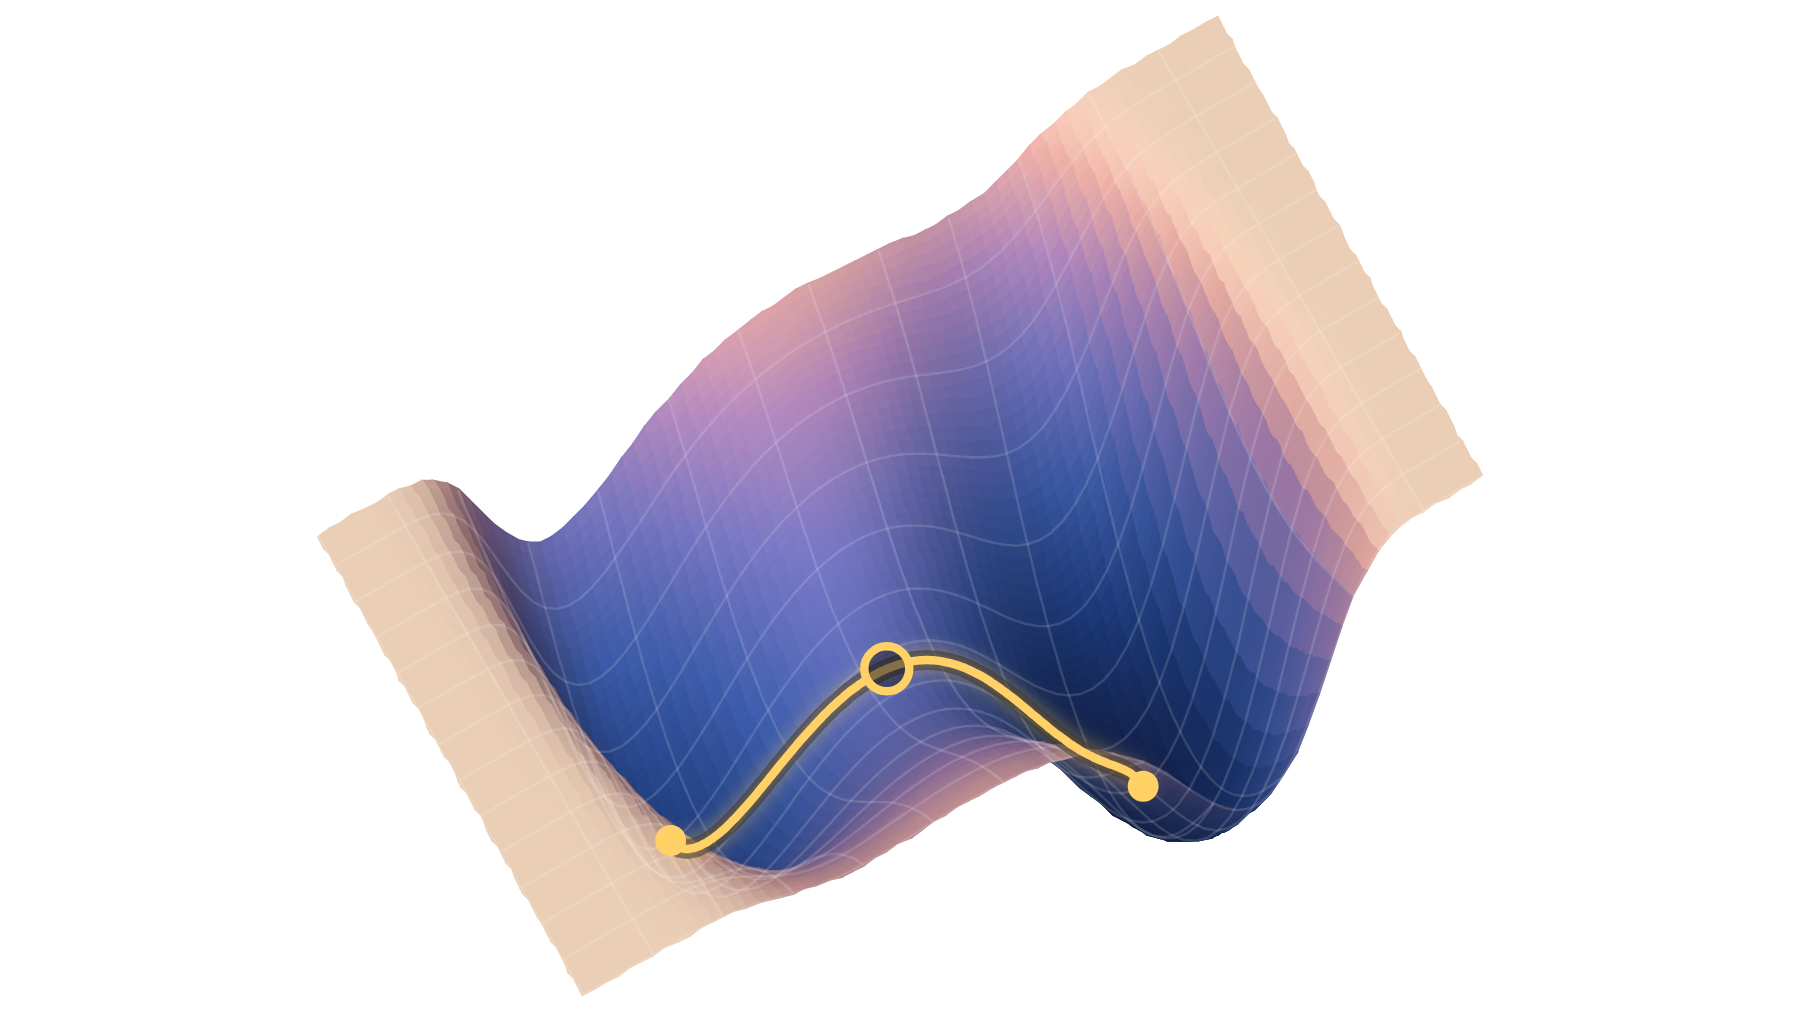
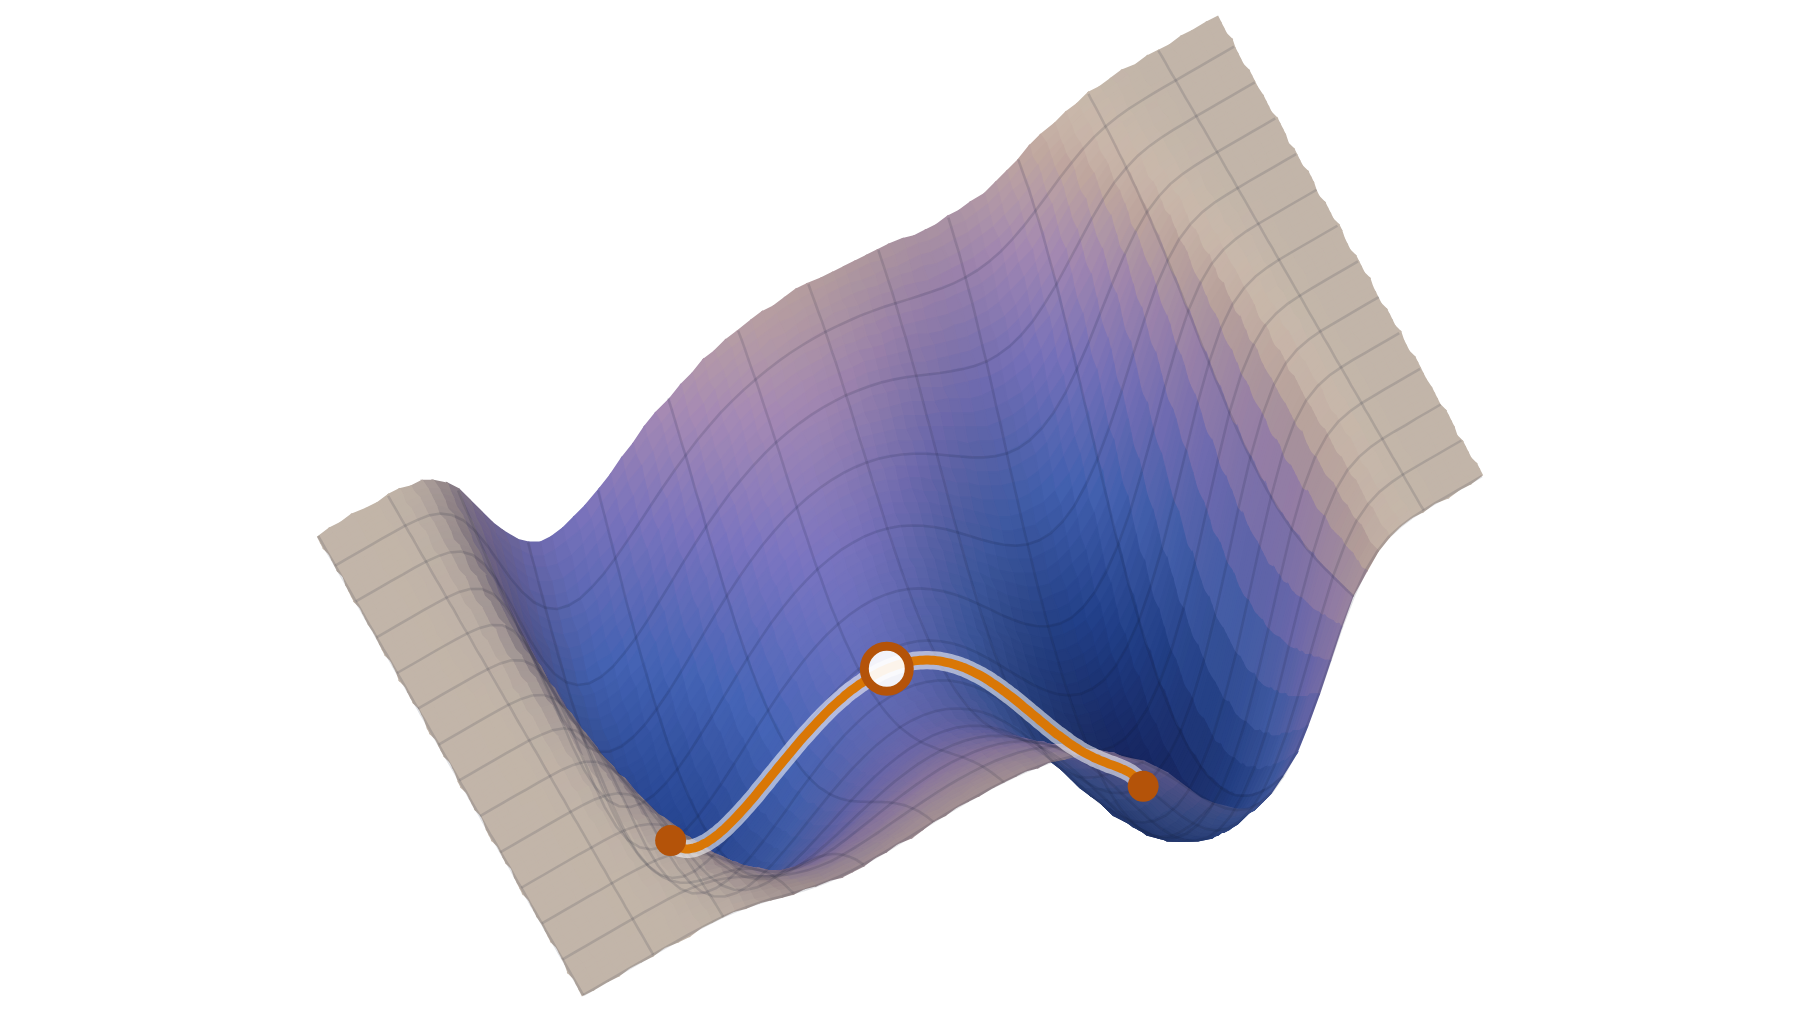
Rebuild the social card on white and use it as the README header
The card was drawn on near-black to match the website, which has since
moved to white figures. Rebuilt on white: the gold accent had no contrast
there, so the accent role moves to burnt amber, the surface's ramp tops out
in a desaturated warm grey rather than a pale peach that dissolved into the
page, and the mesh lines and the halo under the path swap light for dark.

The eyebrow now reads chem-skills rather than run-ts-finder, since the card
stands for the repository; the skill that produced the log is named beneath
it. The leader lines stop at the saddle and the endpoint instead of running
past them.

diff --git a/.github/social/social-preview.html b/.github/social/social-preview.html
@@ -1,33 +1,32 @@
 <link rel="stylesheet" href="https://fonts.googleapis.com/css2?family=Instrument+Sans:wght@400;500;600&family=JetBrains+Mono:wght@400;500&display=swap">
 <style>
 *{box-sizing:border-box;margin:0}
-html,body{width:1280px;height:640px;overflow:hidden;background:#070a16}
-body{background:#070a16;color:#eceae6;font-family:'Instrument Sans',-apple-system,Arial,sans-serif;
-     -webkit-font-smoothing:antialiased}
+html,body{width:1280px;height:640px;overflow:hidden;background:#ffffff}
+body{color:#16181d;font-family:'Instrument Sans',-apple-system,Arial,sans-serif;-webkit-font-smoothing:antialiased}
 .mono{font-family:'JetBrains Mono',ui-monospace,monospace}
-.gold{color:#ffd166}
-.surf{position:absolute;background-size:contain;background-repeat:no-repeat;background-position:center}
-</style><style>
-.frame{position:relative;width:1280px;height:512px;top:64px}
-.log{position:absolute;left:72px;top:142px;width:470px}
-.log li{list-style:none;display:flex;gap:16px;align-items:baseline;padding:11px 0;
-        border-bottom:1px solid rgba(255,255,255,.07);font-size:17px;letter-spacing:.01em}
+.frame{position:relative;width:1280px;height:640px}
+.surf{position:absolute;right:-104px;top:44px;width:830px;height:552px;
+  background-image:url(surface.png);background-size:contain;
+  background-repeat:no-repeat;background-position:center}
+.brand{position:absolute;left:80px;top:148px;font-size:34px;color:#b45309;letter-spacing:-.01em}
+.sub{position:absolute;left:80px;top:196px;font-size:15px;color:#6b7280;letter-spacing:.14em;text-transform:uppercase}
+.log{position:absolute;left:80px;top:248px;width:486px}
+.log li{list-style:none;display:flex;gap:16px;align-items:baseline;padding:12px 0;
+  border-bottom:1px solid rgba(16,24,40,.10);font-size:18px;letter-spacing:.01em}
 .log li:last-child{border-bottom:0}
-.tick{width:17px;flex:none;color:#ffd166;font-size:15px}
-.what{color:#c9cbd6;white-space:nowrap}
-.val{margin-left:auto;color:#8b8fa3;font-size:15px;white-space:nowrap}
-.title{position:absolute;left:72px;top:100px;font-size:14px;letter-spacing:.2em;
-        text-transform:uppercase;color:#ffd166}
-.surf{right:-116px;top:-10px;width:800px;height:530px;background-image:url(surface.png)}
-.tie{position:absolute;left:0;top:0;width:1280px;height:512px}
+.tick{width:18px;flex:none;color:#b45309;font-size:16px}
+.what{color:#2c3242;white-space:nowrap}
+.val{margin-left:auto;color:#6b7280;font-size:16px;white-space:nowrap}
+.tie{position:absolute;left:0;top:0;width:1280px;height:640px}
 </style>
 <div class="frame">
   <div class="surf"></div>
-  <svg class="tie"><g stroke="#ffd166" stroke-opacity=".34" stroke-width="1" fill="none">
-    <path d="M560 249 C706 249 806 306 964 324"/>
-    <path d="M560 335 C694 335 784 392 874 402"/>
+  <svg class="tie"><g stroke="#b45309" stroke-opacity=".45" stroke-width="1" fill="none">
+    <path d="M580 361 C742 361 852 384 942 393"/>
+    <path d="M580 452 C700 452 792 468 846 473"/>
   </g></svg>
-  <p class="title mono">run-ts-finder</p>
+  <p class="brand mono">chem-skills</p>
+  <p class="sub mono">run-ts-finder</p>
   <ul class="log mono">
     <li><span class="tick">&#9656;</span><span class="what">growing string, 11 nodes</span><span class="val">g-xTB</span></li>
     <li><span class="tick">&#10003;</span><span class="what">saddle located</span><span class="val">ORCA</span></li>

diff --git a/README.md b/README.md
@@ -1,3 +1,5 @@
+![chem-skills — an agent log beside the potential energy surface it produced: the imaginary frequency tied to the saddle, the IRC to the endpoint it reached.](.github/social/social-preview.png)
+
 # chem-skills
 
 Computational-chemistry [Claude Code](https://claude.com/claude-code) skills.
